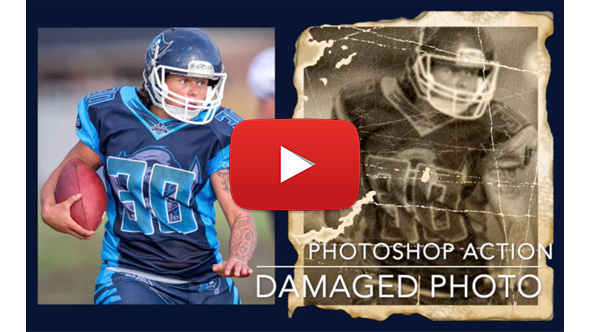
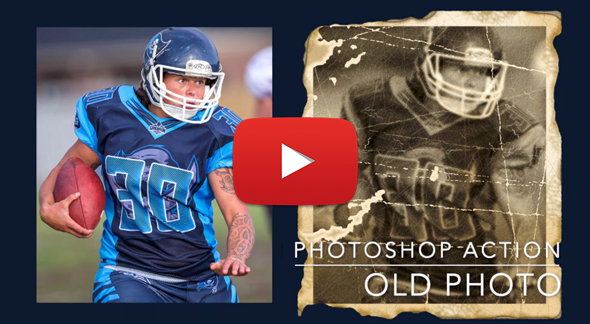
updt

diff --git a/oldphoto/index.html b/oldphoto/index.html
@@ -79,16 +79,8 @@
 <li>All effects in separated layers</li>
 <li>Most effects in editable Color Fill layers</li>
 <li>Effects with fine details</li>
-<li>File ready to save as a GIF format with 32 animation frames</li>
+<li>File with 32 animation frames ready to save as a GIF format</li>
 
-</ul>
-
-
-<h3 style="color:#054F6D">Works with:</h3>
-
-
-<ul style="color:#bababa; margin-left:30px;"><li>Any color mode: RGB, CMYK, Grayscale...</li><li>Any orientation: landscape, square or portrait</li>
-<li>Image layers</li><li>Clipped images</li><li>Vector object layers</li><li>Text layers</li><li>Group layers</li><li>Smart Objects</li>
 <li>Preferred image sizes by pixels in width or height:</li>
 </ul>
 <p><img src="https://akidaniel.github.io/almacen/oldphoto/images/sizes.jpg" alt="Sizes" style="margin: 0px 0;"></p>
@@ -97,14 +89,11 @@
 
 <h3 style="color:#054F6D">Video link:</h3>
 
-<p><a href="https://youtu.be/jVDPUgXSkZg"><img src="https://akidaniel.github.io/almacen/oldphoto/images/video.jpg" alt="video"></a>
+<p><a href="https://youtu.be/UwsWWWPx6GE"><img src="https://akidaniel.github.io/almacen/oldphoto/images/video.jpg" alt="video"></a>
 </p>
 <p style="color:#bababa; ">The example images used in this preview are from <a href="https://unsplash.com/">unsplash.com</a>, not included
 </p>
 </div>
-
-<img src="https://akidaniel.github.io/almacen/oldphoto/images/moto.jpg" alt="Moto">
-<img src="https://akidaniel.github.io/almacen/oldphoto/images/house.jpg" alt="House">
 
 </body>
 </html>
